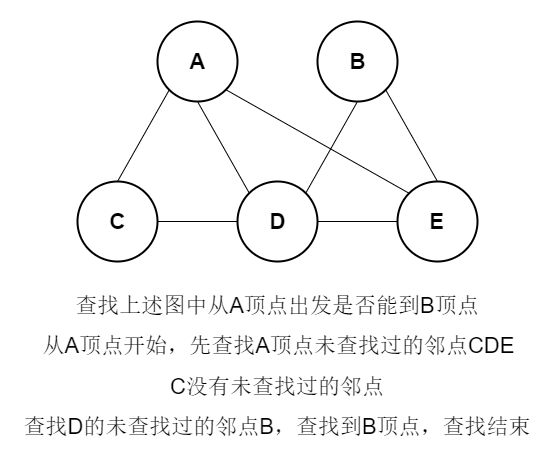
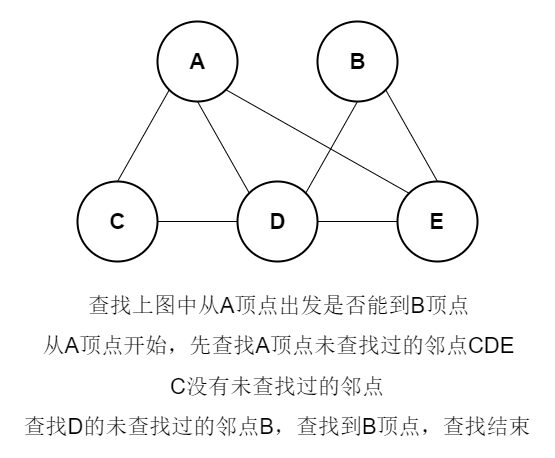
狄克斯特拉算法文档提交，广度优先搜索文档优化。

Changed region(s): [[0.1225, 0.6419, 0.8577, 0.7031]]

diff --git a/算法与数据结构/狄克斯特拉算法.md b/算法与数据结构/狄克斯特拉算法.md
@@ -1,0 +1,203 @@
+本文介绍了狄克斯特拉算法相关知识。内容仅供参考使用，有不足之处请及时指出，也欢迎大家交流探讨。
+
+### 概述
+
+狄克斯特拉（Dijkstra）算法是一种加权图中寻找两节点最短路径的算法。
+
+狄克斯特拉算法适用于有向无环图（directed acyclic graph，DAG）且权重不能为负数。
+
+### 图示
+
+![狄克斯特拉算法](./image/狄克斯特拉算法.png)
+
+### 示例
+
+查找上图中从A顶底到E顶点的最短距离
+
+``` java
+public class Graph {
+
+    // 顶点列表
+    private List<String> vertexList;
+    // 存储边
+    private int[][] edges;
+    // 边的个数
+    private int edgeNums;
+
+    public Graph(int vertexNums) {
+        vertexList = new ArrayList<>(vertexNums);
+        edges = new int[vertexNums][vertexNums];
+        edgeNums = 0;
+        IntStream.range(0, vertexNums).forEach(i -> Arrays.fill(edges[i], Integer.MAX_VALUE));
+    }
+
+    public int getVertexNums() {
+        return vertexList.size();
+    }
+
+    public int getVertexIndex(String vertex) {
+        return vertexList.indexOf(vertex);
+    }
+
+    public List<String> getVertexList() {
+        return vertexList;
+    }
+
+    public int[][] getEdges() {
+        return edges;
+    }
+
+    public void addVertex(String vertex) {
+        vertexList.add(vertex);
+    }
+
+    public void addEdge(int i, int j, int weight) {
+        edgeNums++;
+        edges[i][j] = weight;
+    }
+}
+```
+
+``` java
+public class WeightRecord {
+
+    private String fatherVertex;
+    private String vertex;
+    private int weight;
+
+    public String getFatherVertex() {
+        return fatherVertex;
+    }
+
+    public void setFatherVertex(String fatherVertex) {
+        this.fatherVertex = fatherVertex;
+    }
+
+    public String getVertex() {
+        return vertex;
+    }
+
+    public void setVertex(String vertex) {
+        this.vertex = vertex;
+    }
+
+    public int getWeight() {
+        return weight;
+    }
+
+    public void setWeight(int weight) {
+        this.weight = weight;
+    }
+}
+```
+
+``` java
+public static void main(String[] args) {
+
+    Graph graph = new Graph(5);
+
+    graph.addVertex("A");
+    graph.addVertex("B");
+    graph.addVertex("C");
+    graph.addVertex("D");
+    graph.addVertex("E");
+
+    graph.addEdge(1, 0, 3);
+    graph.addEdge(2, 0, 2);
+    graph.addEdge(3, 0, 0);
+    graph.addEdge(4, 1, 4);
+    graph.addEdge(2, 2, 5);
+    graph.addEdge(1, 3, 1);
+    graph.addEdge(4, 3, 6);
+
+    dijkstra(graph, "A", "E");
+}
+
+public static void dijkstra(Graph graph, String startVertex, String endVertex) {
+
+    Map<String, WeightRecord> weightRecordMap = new HashMap<>();
+    Set<String> unCheckSet = new HashSet<>();
+
+    graph.getVertexList().forEach(vertex -> {
+
+        if (!startVertex.equals(vertex)) {
+            WeightRecord weightRecord = new WeightRecord();
+            weightRecord.setVertex(vertex);
+            weightRecord.setWeight(Integer.MAX_VALUE);
+            weightRecordMap.put(vertex, weightRecord);
+        }
+
+        if (!startVertex.equals(vertex) && !endVertex.equals(vertex)) {
+            unCheckSet.add(vertex);
+        }
+    });
+
+    for (int i = 0; i < graph.getVertexNums(); i++) {
+
+        int weight = graph.getEdges()[i][graph.getVertexIndex(startVertex)];
+        if (weight != Integer.MAX_VALUE) {
+            WeightRecord weightRecord = weightRecordMap.get(graph.getVertexList().get(i));
+            weightRecord.setFatherVertex(startVertex);
+            weightRecord.setWeight(weight);
+        }
+    }
+
+    while (!unCheckSet.isEmpty()) {
+
+        Set<String> vertexSet = weightRecordMap.keySet();
+        Iterator iterator = vertexSet.iterator();
+        int minWeight = Integer.MAX_VALUE;
+        String minWeightVertex = "";
+        while (iterator.hasNext()) {
+            String vertex = iterator.next().toString();
+            int tempWeight = weightRecordMap.get(vertex).getWeight();
+            if (unCheckSet.contains(vertex) && minWeight > tempWeight) {
+                minWeight = tempWeight;
+                minWeightVertex = vertex;
+            }
+        }
+
+        unCheckSet.remove(minWeightVertex);
+
+        for (int i = 0; i < graph.getVertexNums(); i++) {
+
+            int weight = graph.getEdges()[i][graph.getVertexIndex(minWeightVertex)];
+            if (weight != Integer.MAX_VALUE) {
+                WeightRecord weightRecord = weightRecordMap.get(graph.getVertexList().get(i));
+                int minWeightVertexWeight = weightRecordMap.get(minWeightVertex).getWeight();
+                if (weightRecord.getWeight() > weight + minWeightVertexWeight) {
+                    weightRecord.setWeight(weight + minWeightVertexWeight);
+                    weightRecord.setFatherVertex(minWeightVertex);
+                }
+            }
+        }
+    }
+
+    if (weightRecordMap.get(endVertex).getWeight() == Integer.MAX_VALUE) {
+        System.out.println("起始顶点无法到达结束顶点");
+    }
+
+    Stack<String> vertexStack = new Stack<>();
+    String tempVertex = endVertex;
+    int weightSum = 0;
+    while (!startVertex.equals(weightRecordMap.get(tempVertex).getFatherVertex())) {
+        vertexStack.push(weightRecordMap.get(tempVertex).getFatherVertex());
+        weightSum += weightRecordMap.get(tempVertex).getWeight();
+        tempVertex = weightRecordMap.get(tempVertex).getFatherVertex();
+    }
+
+    System.out.println("起始顶点到结束顶点的最短路径为" + weightSum);
+    System.out.print(startVertex + "->");
+    while (!vertexStack.empty()) {
+        System.out.print(vertexStack.pop() + "->");
+    }
+    System.out.println(endVertex);
+}
+```
+
+输出
+
+``` text
+起始顶点到结束顶点的最短路径为6
+A->D->B->E
+```

diff --git a/SUMMARY.md b/SUMMARY.md
@@ -71,6 +71,7 @@
     * [选择排序](算法与数据结构/选择排序.md)
     * [快速排序](算法与数据结构/快速排序.md)
     * [广度优先搜索](算法与数据结构/广度优先搜索.md)
+    * [狄克斯特拉算法](算法与数据结构/狄克斯特拉算法.md)
 * [设计模式](设计模式/23种常见设计模式汇总.md)
     * [23种常见设计模式汇总](设计模式/23种常见设计模式汇总.md)
     * [中介者模式简介](设计模式/中介者模式简介.md)

diff --git a/算法与数据结构/广度优先搜索.md b/算法与数据结构/广度优先搜索.md
@@ -16,7 +16,7 @@ O(V+E)，V为顶点数，E为边数。
 
 ### 示例
 
-查找上述图中从A顶点出发，是否能到B顶点和F顶点
+查找上图中从A顶点出发，是否能到B顶点和F顶点
 
 ``` java
 public class Graph {
